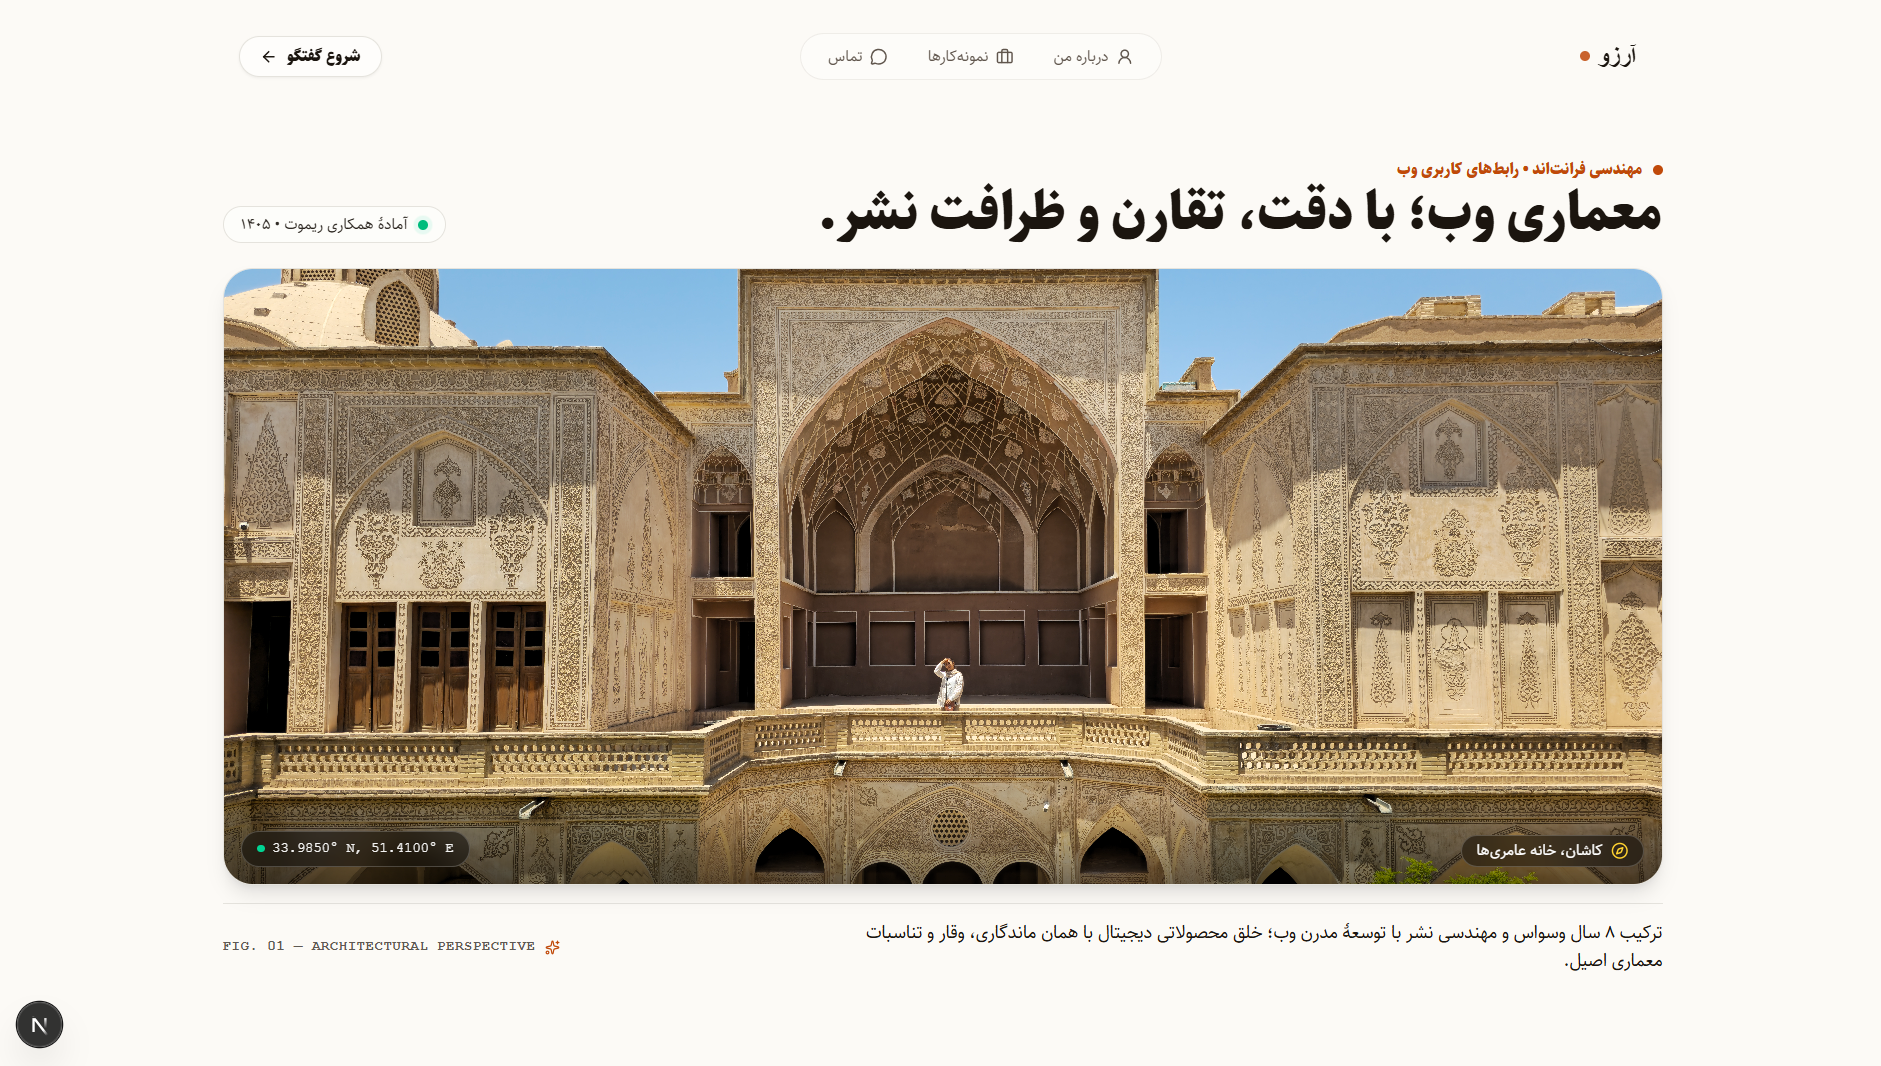
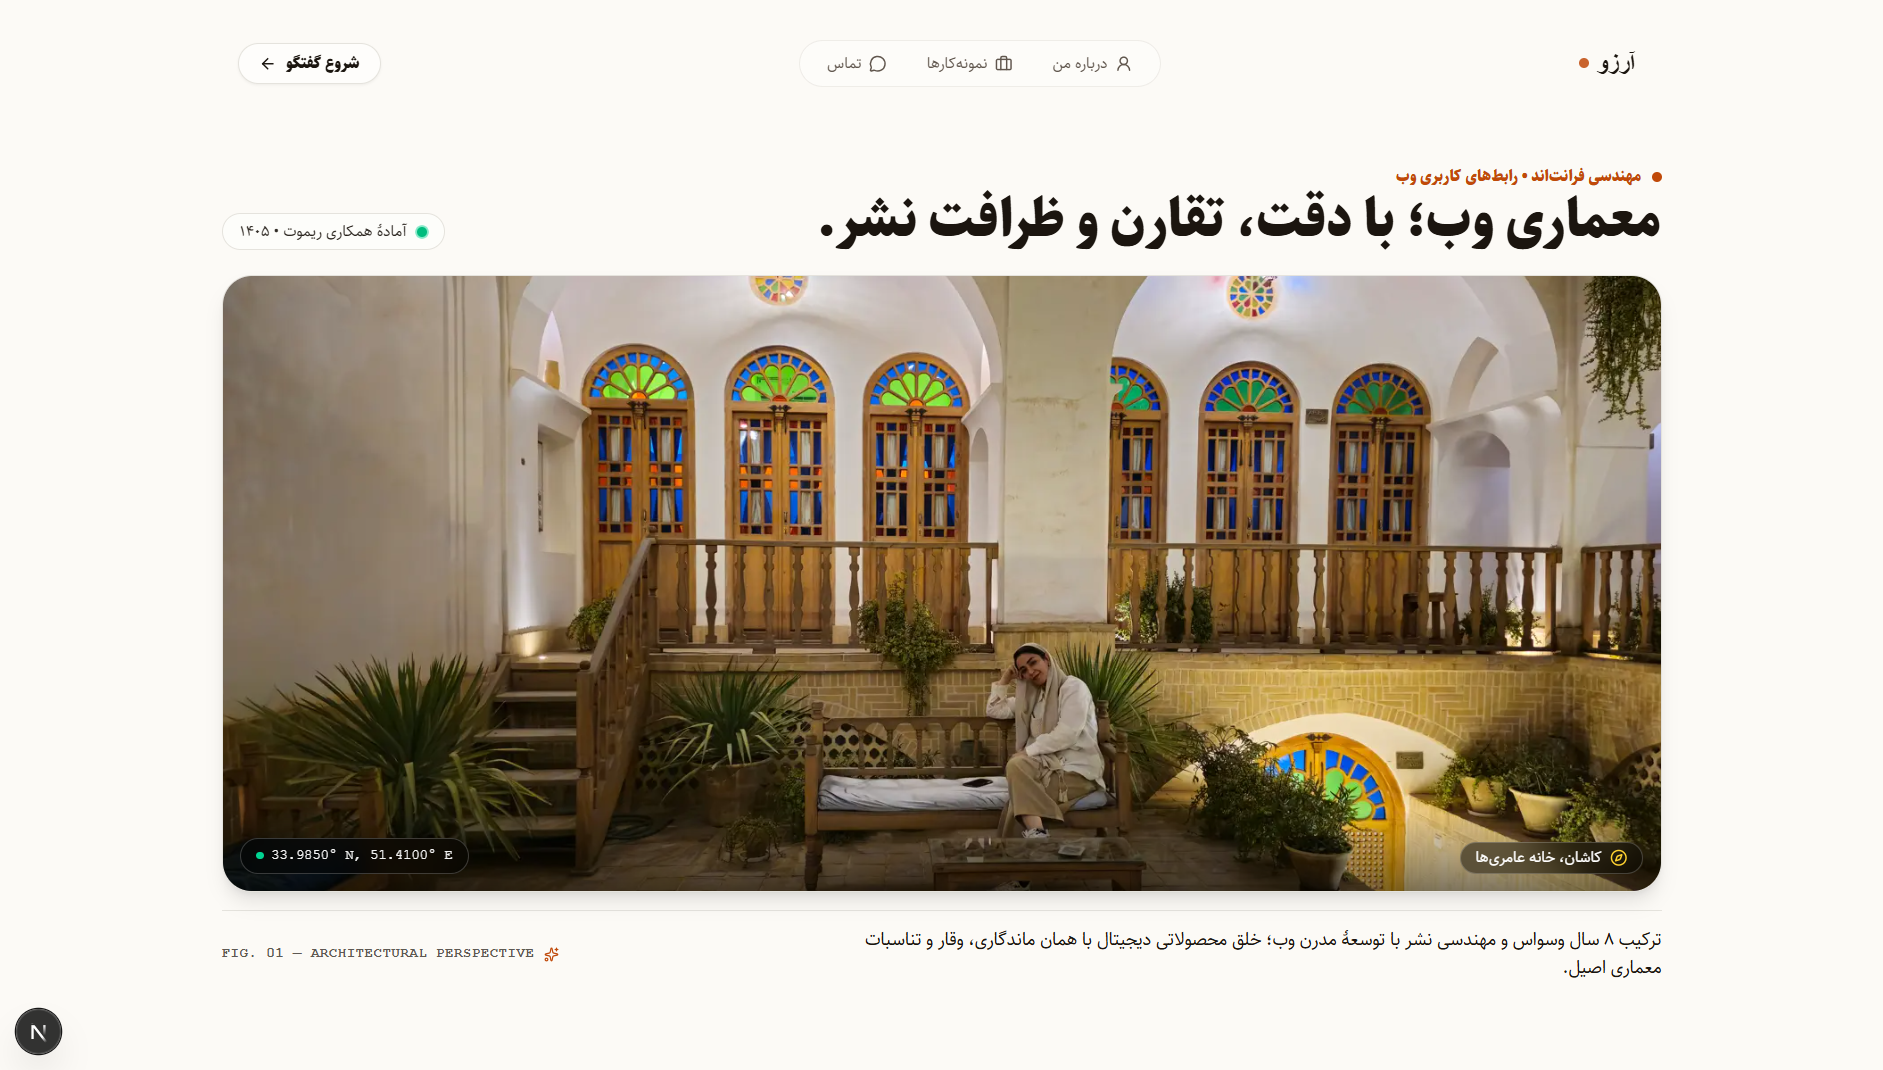
optimize: replace hero image with compressed version

diff --git a/src/components/hero.tsx b/src/components/hero.tsx
@@ -34,7 +34,7 @@ export function Hero() {
         {/* ۲. قاب تصویر استاتیک، سریع و باوقار (نسبت سینمایی کشیده) */}
         <div className="relative aspect-[16/10] w-full overflow-hidden rounded-2xl border border-[var(--color-border)] bg-[var(--color-card)] shadow-lg sm:aspect-[18/9] lg:aspect-[21/9] sm:rounded-3xl">
           <Image
-            src="/images/kashan.jpg"
+            src="/images/kashan.png"
             alt="آرزو نعمتی - خانه عامریها کاشان"
             fill
             priority
